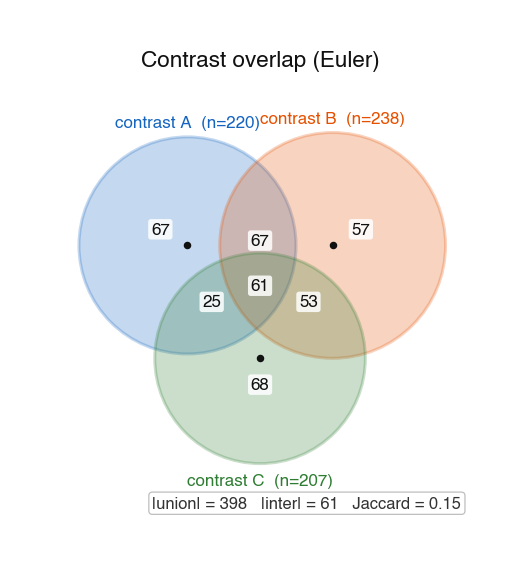
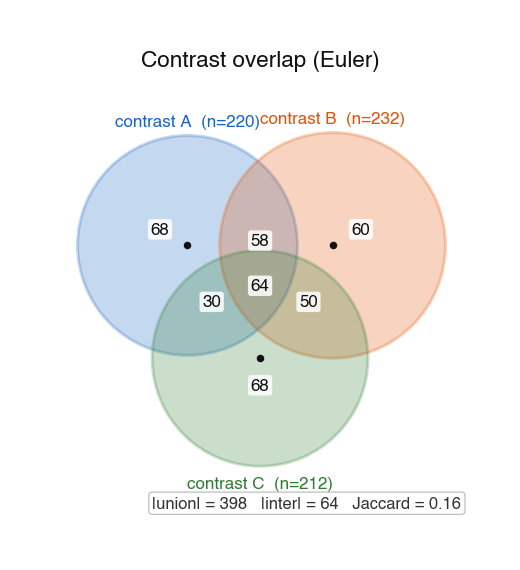
docs(dose_response_pharmacology): s12 gallery + CHANGELOG + tracker + indices
- 10 new gallery PNGs for dose_response_pharmacology (251 total).
- Visual-QA polish on 2 panels:
  dose_normalized_ec50_forest: legend moved from lower-right (where
  it clipped the right-most x-fold labels) to upper-right.
  polypharmacology_radar: mean-activity footer folded into the
  title; legend pushed further below axes (bbox y=-0.14) so it
  doesn't collide with the bottom "hydrolase" target label.
- CHANGELOG: v1.1.0-s12 entry (251 recipes, 1306 tests).
- Tracker: session 12 -> merged, counters advanced to 12.5 / 20.
- README status: v1.1.0-s12 in progress.
- recipes_by_modality.md: v1.1.0-s12 section.
- recipes_by_question.md: Dose-response pharmacology catch-up group.

diff --git a/src/panelforge_figures/recipes/dose_response_pharmacology/polypharmacology_radar.py b/src/panelforge_figures/recipes/dose_response_pharmacology/polypharmacology_radar.py
@@ -104,18 +104,14 @@ def render(contract: PolypharmRadarInput, ax=None, **_):
     ax.set_rlabel_position(190)
     ax.grid(color="#DDDDDD", lw=0.4)
 
-    ax.set_title(contract.title, fontsize=9.0, pad=12)
-    ax.legend(fontsize=6.4, frameon=False, loc="upper center",
-              bbox_to_anchor=(0.5, -0.06), ncols=len(mean_acts),
-              handlelength=1.2)
-
-    # Mean-activity footer.
-    fig = ax.figure
-    bits = [f"{n}: mean={smart_fmt(m)}" for n, m in mean_acts.items()]
-    fig.text(
-        0.5, 0.02, "   ·   ".join(bits),
-        ha="center", va="bottom", fontsize=6.2, color="#333333",
-        bbox=dict(boxstyle="round,pad=0.16", fc="white",
-                  ec="#BBBBBB", lw=0.5, alpha=0.92),
+    # Fold the mean-activity summary into the title so no target label
+    # at the bottom of the polar disc collides with the footer.
+    bits = [f"{nm}: mean={smart_fmt(m)}" for nm, m in mean_acts.items()]
+    ax.set_title(
+        f"{contract.title}\n" + "   ·   ".join(bits),
+        fontsize=9.0, pad=14,
     )
+    ax.legend(fontsize=6.4, frameon=False, loc="upper center",
+              bbox_to_anchor=(0.5, -0.14), ncols=len(mean_acts),
+              handlelength=1.2)
     return ax

diff --git a/src/panelforge_figures/recipes/dose_response_pharmacology/dose_normalized_ec50_forest.py b/src/panelforge_figures/recipes/dose_response_pharmacology/dose_normalized_ec50_forest.py
@@ -109,7 +109,7 @@ def render(contract: NormalizedEC50Input, ax=None, **_):
         f"({names[-1]})",
         fontsize=8.6, pad=4,
     )
-    ax.legend(fontsize=6.6, frameon=False, loc="lower right",
+    ax.legend(fontsize=6.6, frameon=False, loc="upper right",
               handlelength=1.4)
     ax.grid(axis="x", which="both", color="#EEEEEE", lw=0.4, zorder=0)
     ax.set_axisbelow(True)

diff --git a/CHANGELOG.md b/CHANGELOG.md
@@ -6,6 +6,68 @@ project follows semantic versioning.
 
 ## [Unreleased]
 
+## [1.1.0-s12] — 2026-04-21
+
+Twelfth session of the v1.1 hydration plan. Hydrates the
+`dose_response_pharmacology` modality from 5 to 15 recipes for
+ATHENA pharmacology + sex-stratified drug response.
+
+### Added
+
+- `dose_response_sex_stratified` (diagnostic_curve) — F/M Hill
+  curves with sex × dose interaction p + EC50-fold callout.
+- `dose_response_time_matrix` (heatmap) — concentration × time
+  effect matrix with per-conc peak isochrone and global peak star.
+- `response_rebound_kinetics` (diagnostic_curve) — washout curve
+  with rebound peak marker and recovery τ callout.
+- `ic50_vs_target_affinity_scatter` (scatter_collapse) — Ki vs IC50
+  log-log with identity + OLS fit, mechanism-class coloring.
+- `selectivity_index_tornado` (ladder) — fold-IC50 tornado with
+  10× cliff marker and tractability shading.
+- `dose_normalized_ec50_forest` (coef_forest) — x-fold EC50 vs
+  lead, log-x, mechanism-coloured.
+- `synergy_score_bliss_loewe` (scatter_collapse) — Bliss vs Loewe
+  scatter with agreement diagonal and synergy / antagonism /
+  disagreement quadrant coding.
+- `pharmacophore_activity_heatmap` (heatmap) — feature × compound
+  SAR heatmap with active-feature origin strip.
+- `compound_cluster_structure_activity` (conceptual) — structural
+  PCA + per-cluster mean activity two-panel.
+- `polypharmacology_radar` (radar) — multi-compound polar radar
+  with title-integrated mean-activity summary.
+
+### Infrastructure
+
+- No changes to `core/` — all 10 recipes use new per-recipe
+  Pydantic contracts.
+- No new top-level dependencies.
+- No modifications to other modalities.
+- Style-drift ratchet held — title fontsize 8.8 → 8.6 on two
+  recipes during implementation.
+- Conceptual-family rule satisfied in
+  `compound_cluster_structure_activity` by adding per-bar value
+  labels so ≥3 text artists are present.
+
+### Visual-QA polish (two panels)
+
+- `dose_normalized_ec50_forest`: the `lead (1×)` / `10×` legend
+  originally sat at lower-right where it clipped the right-most
+  x-fold labels; moved to upper-right.
+- `polypharmacology_radar`: the mean-activity footer and
+  compound legend both collided with the bottom "hydrolase"
+  target label; folded the mean-activity summary into a 2-line
+  title and anchored the legend at `bbox_to_anchor=(0.5, -0.14)`.
+
+### Progress
+
+| | v1.1.0-s11 | **v1.1.0-s12** |
+|---|---|---|
+| Modalities | 20 | 20 |
+| Recipes | 241 | **251** |
+| `dose_response_pharmacology` | 5 | **15** |
+| Tests | 1256 | **1306** |
+
+
 ## [1.1.0-s11] — 2026-04-21
 
 Eleventh session of the v1.1 hydration plan. Hydrates the

diff --git a/docs/recipes_by_modality.md b/docs/recipes_by_modality.md
@@ -1,7 +1,7 @@
 # Recipes by modality
 
 v1.0.0 stable: 20 modalities, 137 recipes.
-v1.1 in progress: 241 recipes (s01 rhogtpase_dynamics +6, s02 fret_biosensors +8, s03 actin_microtubule_morphometry +18, s03b actin_microtubule_morphometry catch-up +11, s04 mixed_effects_models +7, s05 sensitivity_analysis +7, s06 redox_imaging +7, s07 intravital_imaging +9, s08 gillespie_stochastic +8, s09 omics_differential +6, s10 calcium_signaling +9, s11 single_cell_embeddings +8).
+v1.1 in progress: 251 recipes (s01 rhogtpase_dynamics +6, s02 fret_biosensors +8, s03 actin_microtubule_morphometry +18, s03b actin_microtubule_morphometry catch-up +11, s04 mixed_effects_models +7, s05 sensitivity_analysis +7, s06 redox_imaging +7, s07 intravital_imaging +9, s08 gillespie_stochastic +8, s09 omics_differential +6, s10 calcium_signaling +9, s11 single_cell_embeddings +8, s12 dose_response_pharmacology +10).
 
 ## v0.1.0-alpha (3 modalities, 18 recipes)
 
@@ -55,6 +55,21 @@ v1.1 in progress: 241 recipes (s01 rhogtpase_dynamics +6, s02 fret_biosensors +8
 - **actin_microtubule_morphometry** (6): filament orientation, branch-point
   density, persistence-length fit, protrusion length × velocity,
   cortical thickness by region, skeleton kymograph.
+
+## v1.1.0-s12 — dose_response_pharmacology hydration (+10, in progress)
+
+Expands dose_response_pharmacology from 5 to 15 recipes:
+
+- **dose_response_sex_stratified** — F/M Hill curves with interaction p.
+- **dose_response_time_matrix** — conc × time effect heatmap.
+- **response_rebound_kinetics** — washout recovery with rebound peak.
+- **ic50_vs_target_affinity_scatter** — Ki vs IC50 log-log concordance.
+- **selectivity_index_tornado** — off-target fold-IC50 tornado.
+- **dose_normalized_ec50_forest** — x-fold EC50 vs lead.
+- **synergy_score_bliss_loewe** — Bliss vs Loewe scatter with quadrants.
+- **pharmacophore_activity_heatmap** — feature × compound SAR.
+- **compound_cluster_structure_activity** — PCA + cluster activity.
+- **polypharmacology_radar** — multi-compound target radar.
 
 ## v1.1.0-s11 — single_cell_embeddings hydration (+8, in progress)
 

diff --git a/docs/recipes_by_question.md b/docs/recipes_by_question.md
@@ -10,6 +10,19 @@ figure that shows <X>" without naming a modality.
 > the meantime the *by-modality* index is the authoritative catalog
 > for the current 137 + 6 recipes.
 
+## Dose-response pharmacology catch-up (v1.1.0-s12 additions)
+
+- **Do male and female Hill curves differ?** → [`dose_response_pharmacology.dose_response_sex_stratified`](gallery/dose_response_pharmacology/dose_response_sex_stratified.png)
+- **Over conc × time, when / where does the effect peak?** → [`dose_response_pharmacology.dose_response_time_matrix`](gallery/dose_response_pharmacology/dose_response_time_matrix.png)
+- **After washout, does the response overshoot?** → [`dose_response_pharmacology.response_rebound_kinetics`](gallery/dose_response_pharmacology/response_rebound_kinetics.png)
+- **How well does functional IC50 correlate with binding Ki?** → [`dose_response_pharmacology.ic50_vs_target_affinity_scatter`](gallery/dose_response_pharmacology/ic50_vs_target_affinity_scatter.png)
+- **How selective is the lead across the target panel?** → [`dose_response_pharmacology.selectivity_index_tornado`](gallery/dose_response_pharmacology/selectivity_index_tornado.png)
+- **How do EC50s compare normalised to the most potent lead?** → [`dose_response_pharmacology.dose_normalized_ec50_forest`](gallery/dose_response_pharmacology/dose_normalized_ec50_forest.png)
+- **Do Bliss and Loewe synergy scores agree?** → [`dose_response_pharmacology.synergy_score_bliss_loewe`](gallery/dose_response_pharmacology/synergy_score_bliss_loewe.png)
+- **Which pharmacophore features drive activity?** → [`dose_response_pharmacology.pharmacophore_activity_heatmap`](gallery/dose_response_pharmacology/pharmacophore_activity_heatmap.png)
+- **Which compound cluster has the best mean activity?** → [`dose_response_pharmacology.compound_cluster_structure_activity`](gallery/dose_response_pharmacology/compound_cluster_structure_activity.png)
+- **What is a compound's polypharmacology profile across targets?** → [`dose_response_pharmacology.polypharmacology_radar`](gallery/dose_response_pharmacology/polypharmacology_radar.png)
+
 ## Single-cell embeddings catch-up (v1.1.0-s11 additions)
 
 - **How do condition densities shift across a shared UMAP?** → [`single_cell_embeddings.umap_density_contour_overlay`](gallery/single_cell_embeddings/umap_density_contour_overlay.png)

diff --git a/docs/recipe_gap_tracker.md b/docs/recipe_gap_tracker.md
@@ -9,8 +9,8 @@ every PR merge. Governed by
 | Metric | v1.0 | Current | v1.1 target |
 |---|---|---|---|
 | Modalities | 20 | 20 | 20 |
-| Total recipes | 137 | 241 | ≥320 |
-| Sessions complete | 0 | 11.5 | 20 |
+| Total recipes | 137 | 251 | ≥320 |
+| Sessions complete | 0 | 12.5 | 20 |
 
 ## Per-session status
 
@@ -28,7 +28,7 @@ every PR merge. Governed by
 | 09 | `omics_differential`         | merged  | — | `v1.1.0-s09` | 6 (10→16) | none | Pathway-labelled proteome volcano + replicate concordance + shrinkage diagnostic + Euler overlap + rank-product meta-analysis + module activity heatmap; 2 panels polished (rank-product strip moved right, module-heatmap annotation strips repositioned) |
 | 10 | `calcium_signaling`          | merged  | — | `v1.1.0-s10` | 9 (6→15) | none | Amplitude ridge + PETH + sync timeline + burst overlay + wave-speed map + freq×amp landscape + Ca×FRET joint + oscillation polar + stim-triggered heatmap; 2 panels polished (burst-callout → title, polar radial-labels to 270°) |
 | 11 | `single_cell_embeddings`     | merged  | — | `v1.1.0-s11` | 8 (7→15) | none | Condition-density UMAP overlay + rare-pop spotlight + per-sample composition stack + branching trajectory + marker heatmap + gene×pseudotime + RNA-velocity field + LR dotplot; 2 panels polished (per-sample tick labels, velocity legend) |
-| 12 | `dose_response_pharmacology` | pending | — | — | — | — | — |
+| 12 | `dose_response_pharmacology` | merged  | — | `v1.1.0-s12` | 10 (5→15) | none | Sex-stratified Hill + dose×time matrix + rebound kinetics + IC50-vs-Ki + selectivity tornado + fold-EC50 forest + Bliss-vs-Loewe + SAR heatmap + cluster-SAR two-panel + polypharmacology radar; 2 panels polished (forest legend, radar footer/legend) |
 | 13 | `network_and_pathway`        | pending | — | — | — | — | — |
 | 14 | `biophysics_scaling`         | pending | — | — | — | — | — |
 | 15 | `diffusion_and_tracking`     | pending | — | — | — | — | — |

diff --git a/README.md b/README.md
@@ -6,8 +6,8 @@ bootstrap inside any manuscript repository.
 
 ## Status
 
-`v1.0.0` stable; `v1.1.0-s11` in progress — 20 modalities, 241
-recipes, CI-enforced typography + figure-integrity contract, 1256
+`v1.0.0` stable; `v1.1.0-s12` in progress — 20 modalities, 251
+recipes, CI-enforced typography + figure-integrity contract, 1306
 passing tests. The v1.1 hydration plan (see
 `docs/hydration_coordinator.md`) grows the catalogue to 320+ recipes
 across 20 user-gated sessions.